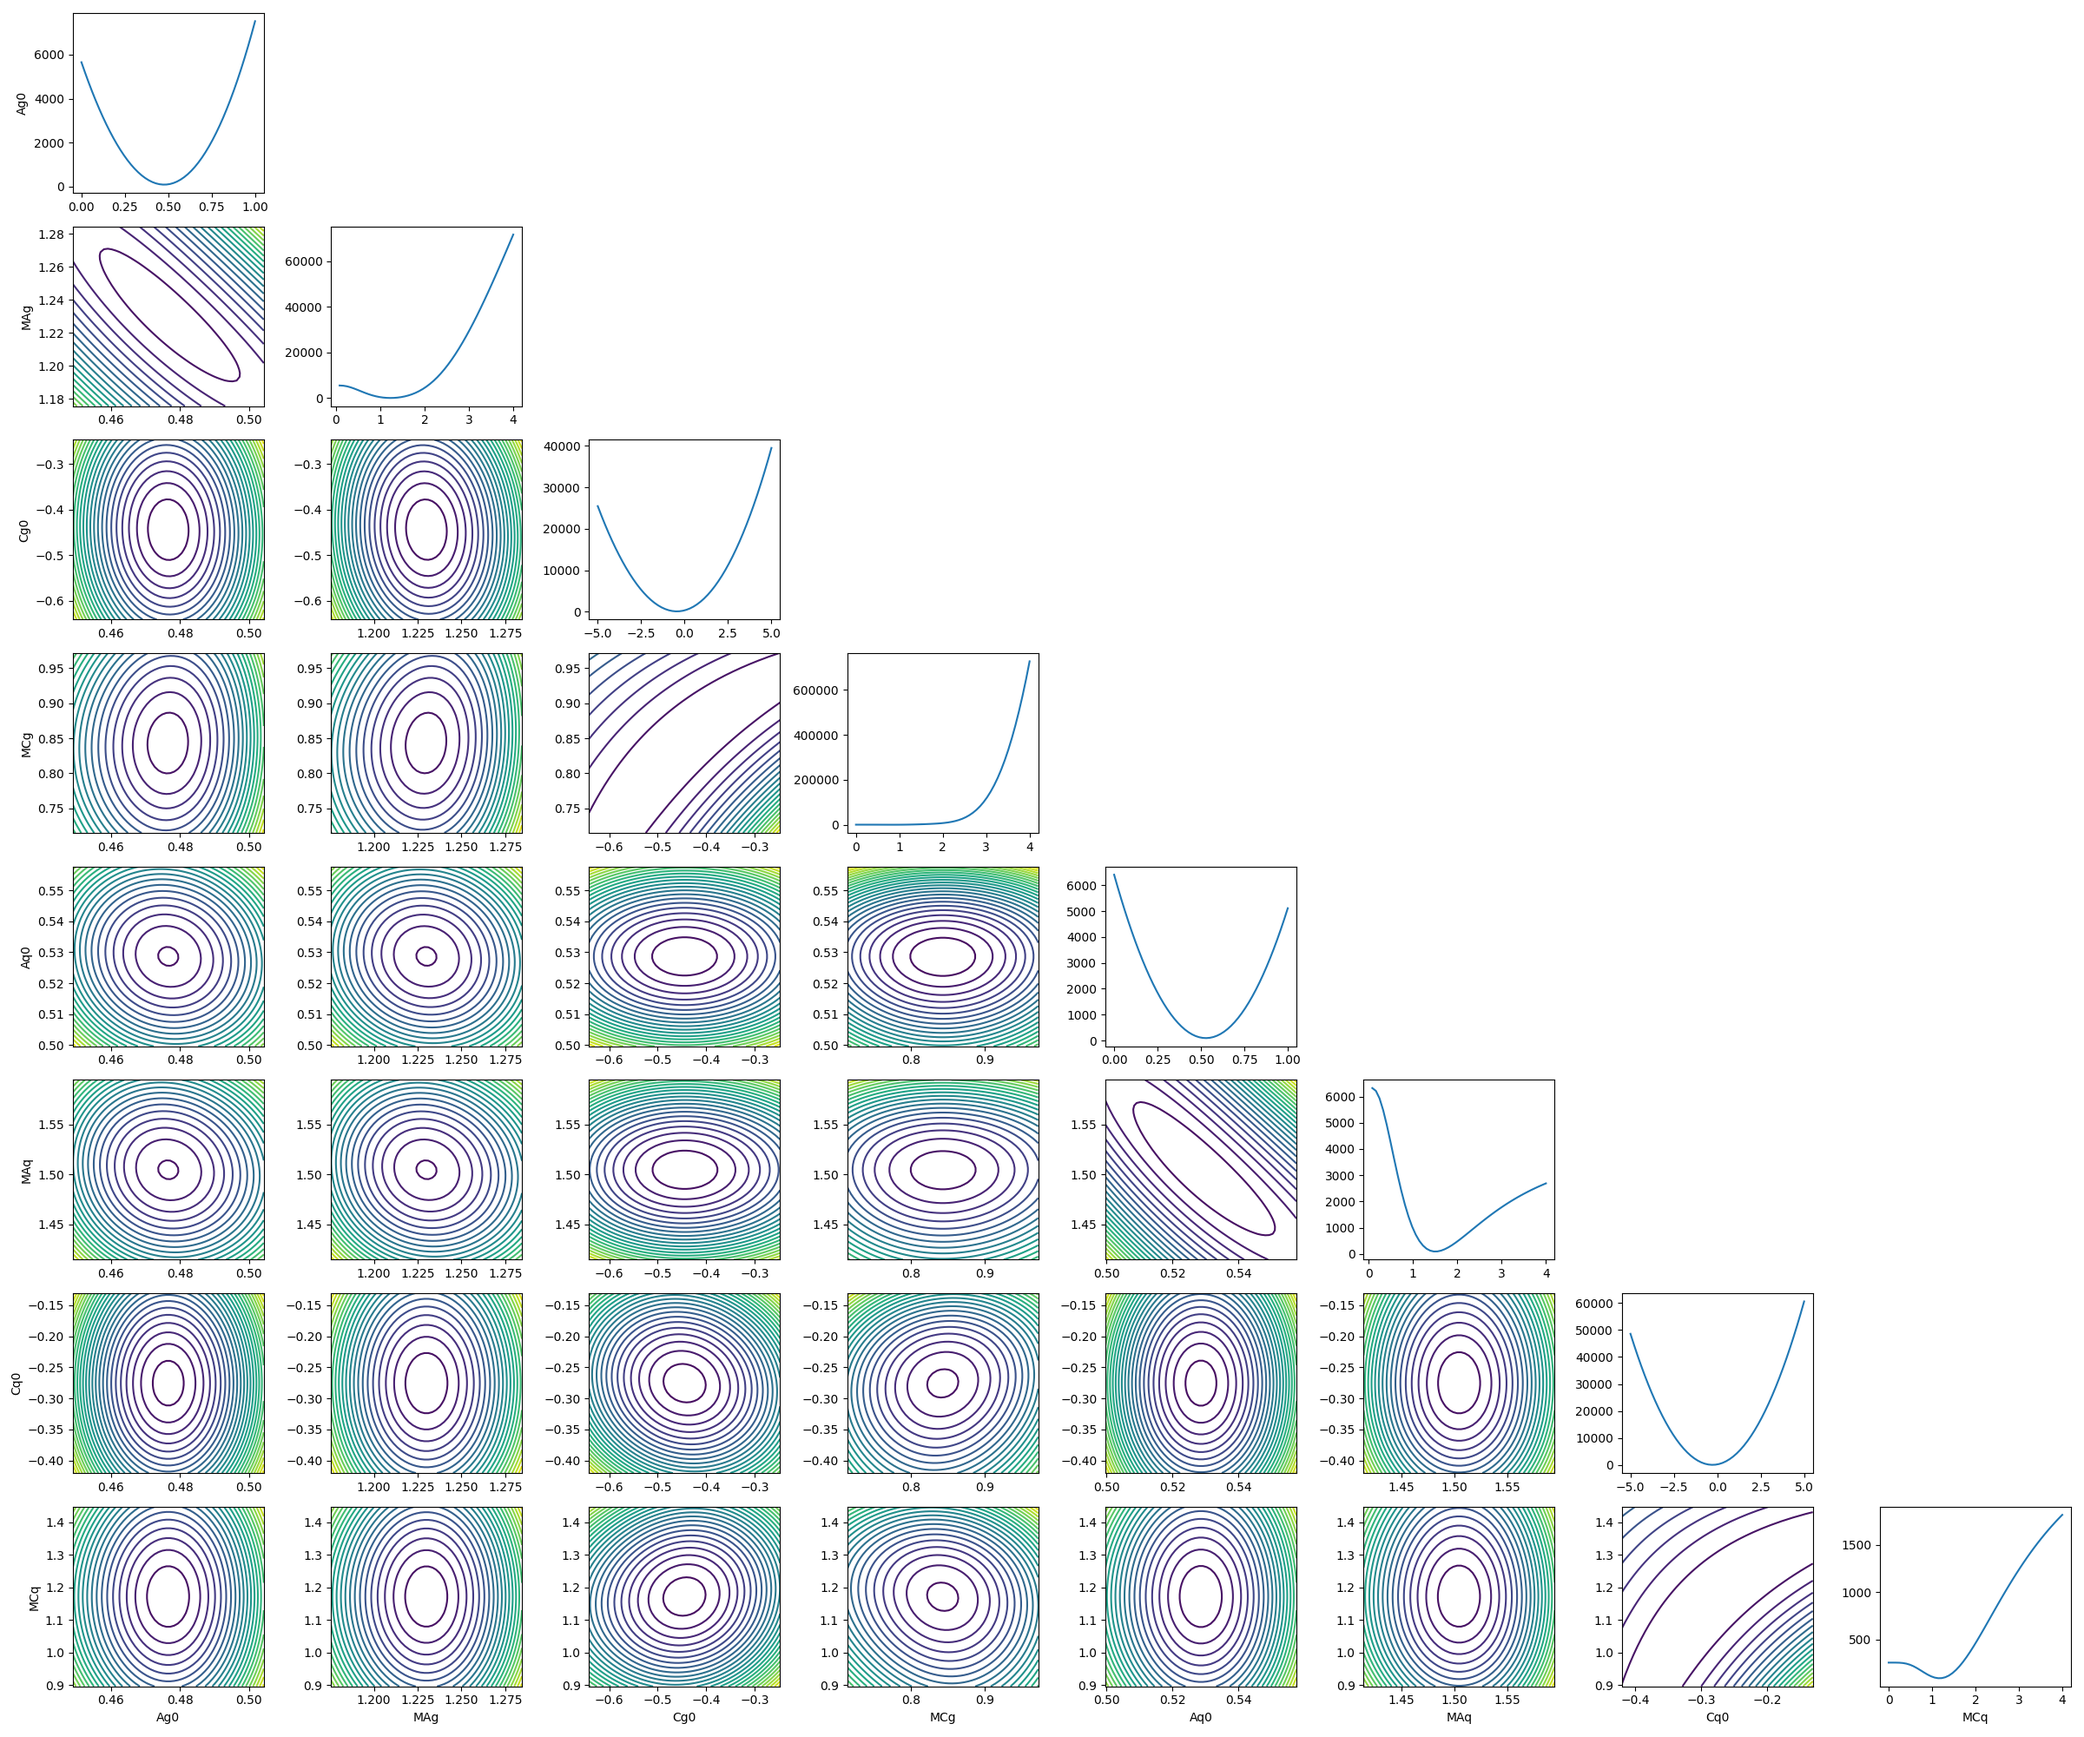
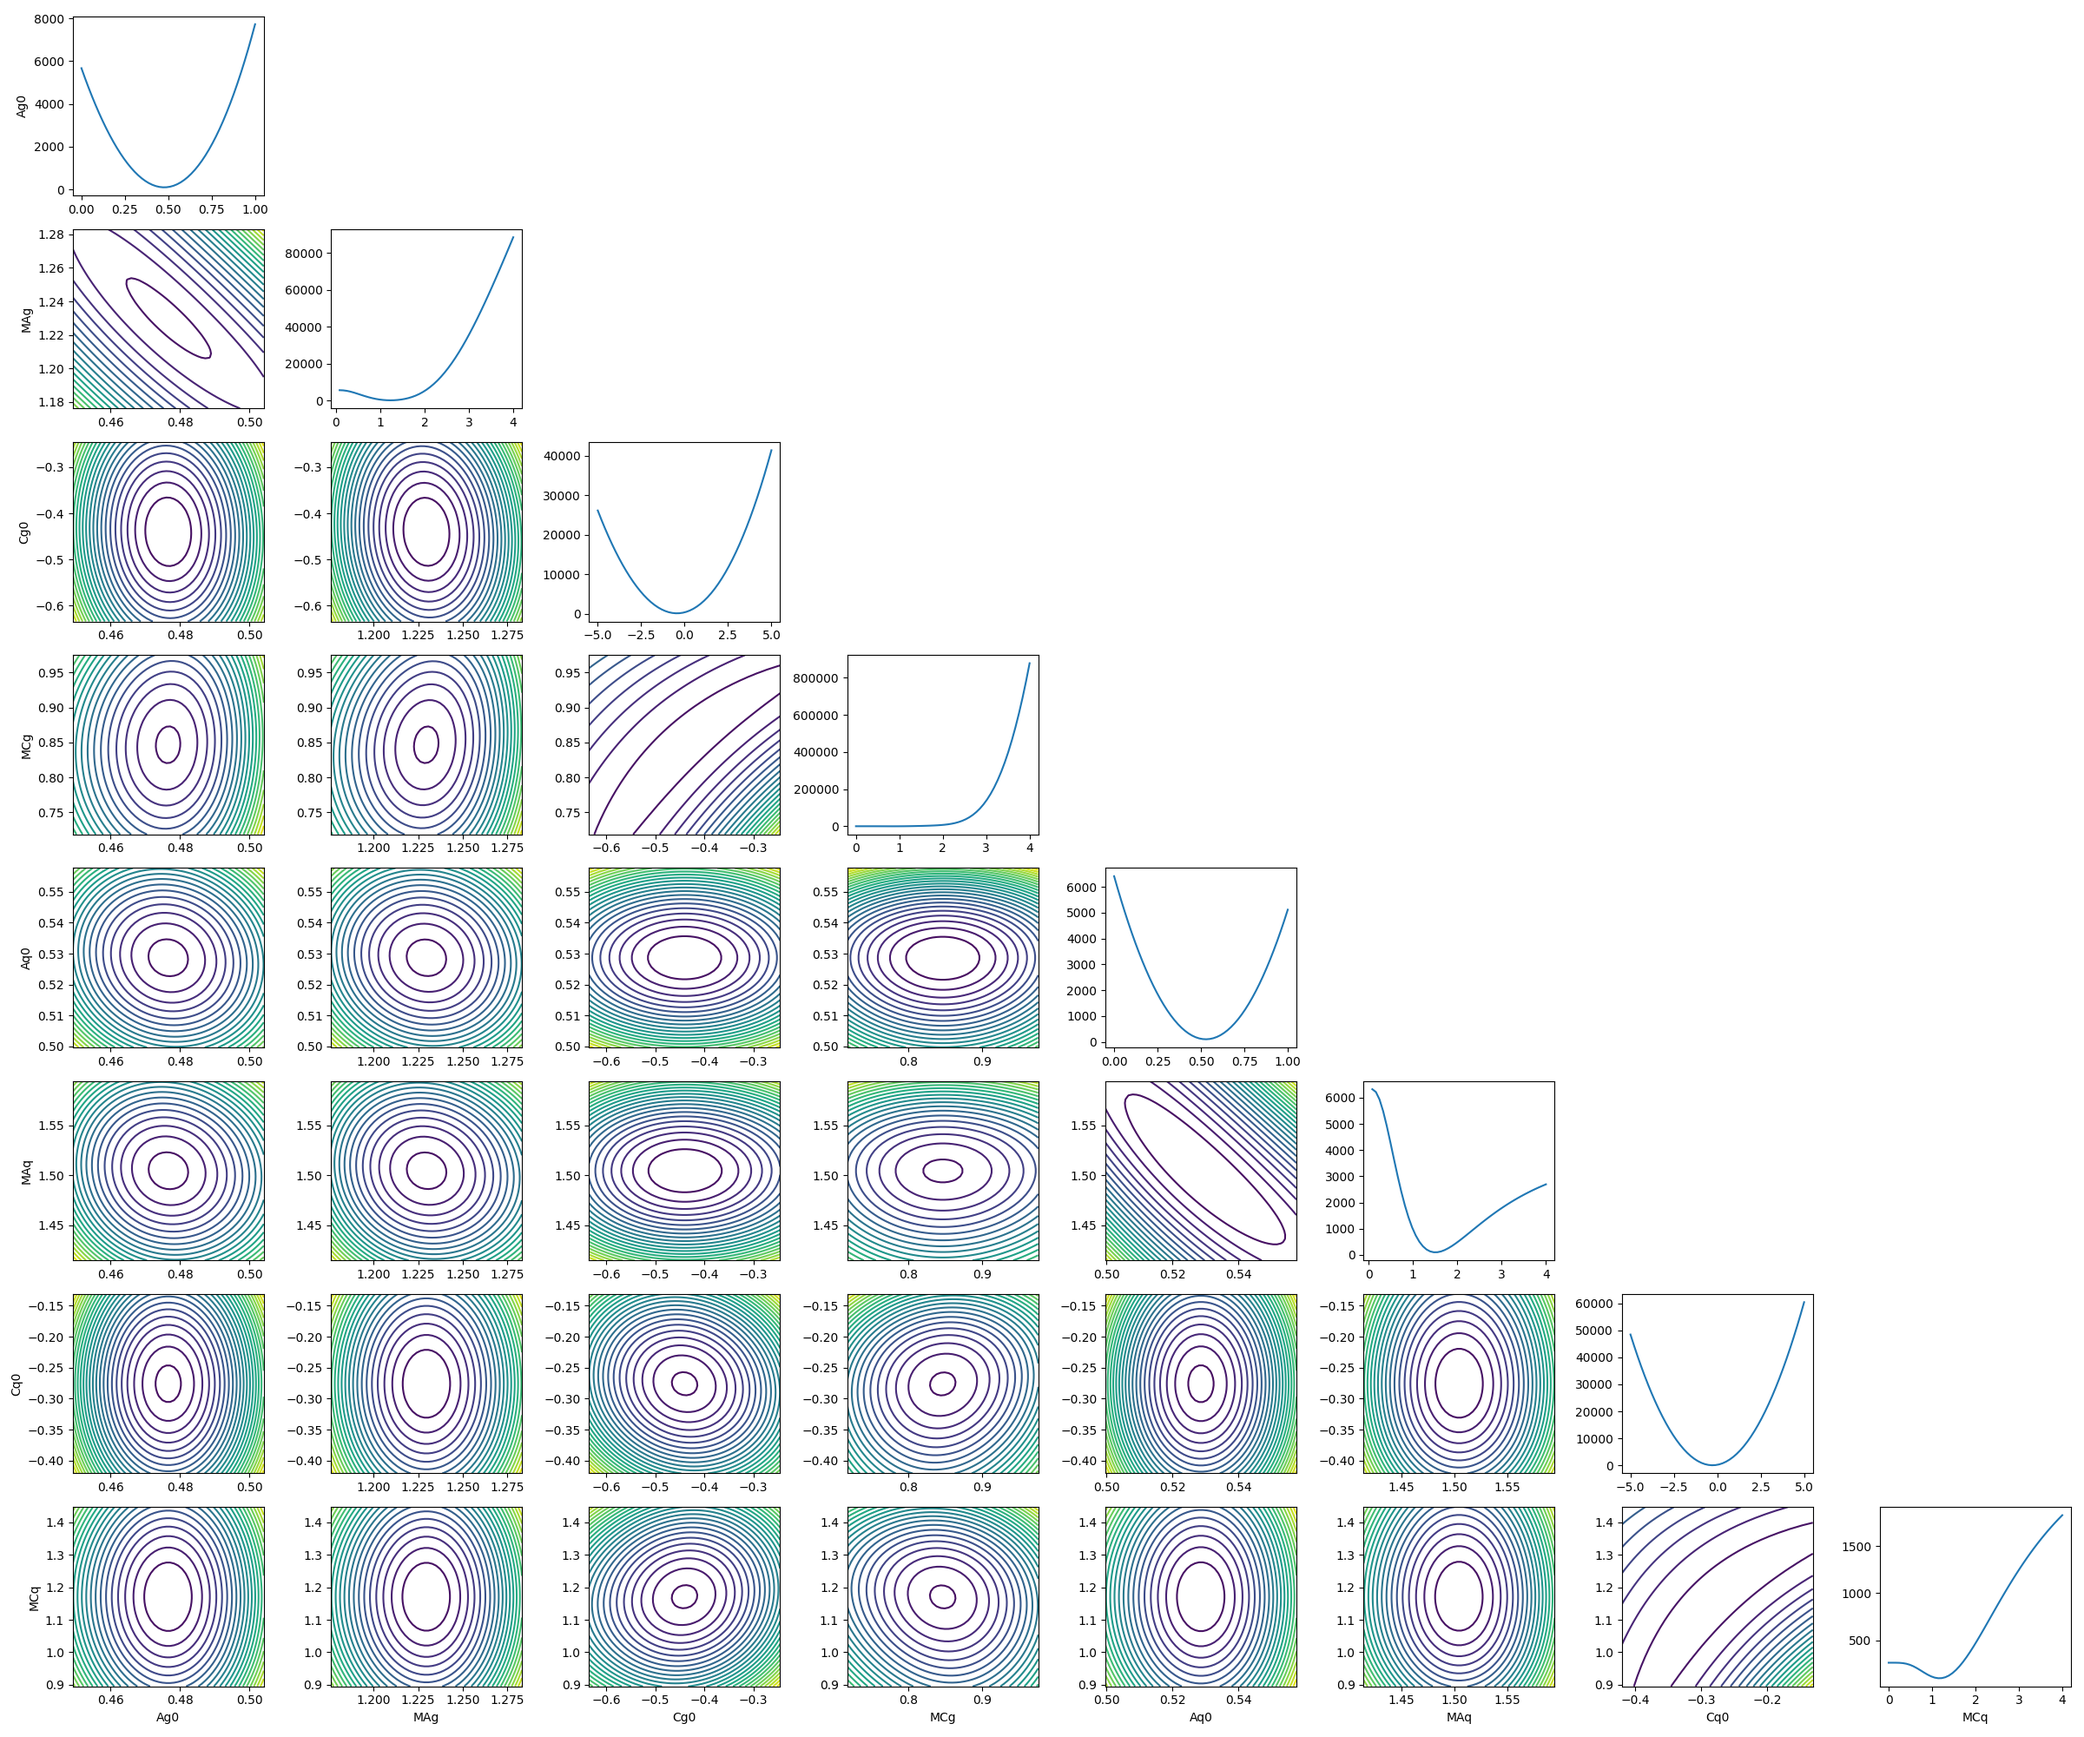
Upd

diff --git a/Jpsi_production.py b/Jpsi_production.py
@@ -75,8 +75,23 @@ def G2_New(W: float, t: float, Ag0: float, MAg: float, Cg0: float, MCg: float, A
     
     return (1-xi ** 2) * (HCFF + ECFF) ** 2 - 2 * ECFF * (HCFF+ECFF) + (1- t/ (4 * Mproton ** 2))* ECFF ** 2
 
+def G2_New_test(W: float, t: float, Ag0: float, MAg: float, Cg0: float, MCg: float, Aq0: float, MAq: float, Cq0: float, MCq: float, mufact:float, P_order: int = 1, A_pole: int = 2, C_pole: int = 3): 
+    xi = Xi(W ,t)
+    [gHCFF, gECFF] = 2*ComptonFormFactors(t, Ag0, MAg, Cg0, MCg, xi, A_pole, C_pole) / xi ** 2
+    [qHCFF, qECFF] = 2*ComptonFormFactors(t, Aq0, MAq, Cq0, MCq, xi, A_pole, C_pole) / xi ** 2
+    
+    CWS, CWG = np.real(Evo_WilsonCoef_SG(mufact*Mcharm,NF,p = 1,p_order= P_order))
+    
+    HCFF = CWG * gHCFF + CWS * qHCFF
+    ECFF = CWG * gECFF + CWS * qECFF
+    
+    return (1-xi ** 2) * (HCFF + ECFF) ** 2 - 2 * ECFF * (HCFF+ECFF) + (1- t/ (4 * Mproton ** 2))* ECFF ** 2
+
 def dsigma_New(W: float, t: float, Ag0: float, MAg: float, Cg0: float, MCg: float, Aq0: float, MAq: float, Cq0: float, MCq: float, P_order = 1, A_pole: int = 2, C_pole: int = 3):
     return 1/conv * alphaEM * (2/3) **2 /(4* (W ** 2 - Mproton ** 2) ** 2) * (16 * np.pi) ** 2/ (3 * MJpsi ** 3) * psi2 * G2_New(W, t, Ag0, MAg, Cg0, MCg, Aq0, MAq, Cq0, MCq, P_order, A_pole, C_pole)
+
+def dsigma_New_test(W: float, t: float, Ag0: float, MAg: float, Cg0: float, MCg: float, Aq0: float, MAq: float, Cq0: float, MCq: float, mufact: float, P_order = 1, A_pole: int = 2, C_pole: int = 3):
+    return 1/conv * alphaEM * (2/3) **2 /(4* (W ** 2 - Mproton ** 2) ** 2) * (16 * np.pi) ** 2/ (3 * MJpsi ** 3) * psi2 * G2_New_test(W, t, Ag0, MAg, Cg0, MCg, Aq0, MAq, Cq0, MCq, mufact, P_order, A_pole, C_pole)
 
 def sigma_New(W: float, Ag0: float, MAg: float, Cg0: float, MCg: float, Aq0: float, MAq: float, Cq0: float, MCq: float, P_order = 1, A_pole: int = 2, C_pole: int = 3):
     return quad(lambda u: dsigma(W, u, Ag0, MAg, Cg0, MCg, Aq0, MAq, Cq0, MCq, P_order, A_pole, C_pole), tmin(W), tmax(W))[0]

diff --git a/test.py b/test.py
@@ -19,3 +19,15 @@ Wp3lst = np.array([Evo_WilsonCoef_SG(mu,NF,p_order=3)/W_ref for mu in mulst ])
 with open("Output/WilsonCoef.csv","w",newline='') as my_csv:
     csvWriter = csv.writer(my_csv,delimiter=',')
     csvWriter.writerows(np.column_stack((mulst, np.real(Wp1lst), np.real(Wp2lst), np.real(Wp3lst))))
+    
+W_ref = Evo_WilsonCoef_SG(M_jpsi/2,NF,p_order=3)[1]
+
+Wp1lst = np.array([Evo_WilsonCoef_SG(mu,NF,p_order=1)/W_ref for mu in mulst ])
+
+Wp2lst = np.array([Evo_WilsonCoef_SG(mu,NF,p_order=2)/W_ref for mu in mulst ])
+
+Wp3lst = np.array([Evo_WilsonCoef_SG(mu,NF,p_order=3)/W_ref for mu in mulst ])
+    
+with open("Output/WilsonCoefSep.csv","w",newline='') as my_csv:
+    csvWriter = csv.writer(my_csv,delimiter=',')
+    csvWriter.writerows(np.column_stack((mulst, np.real(Wp1lst), np.real(Wp2lst), np.real(Wp3lst))))
